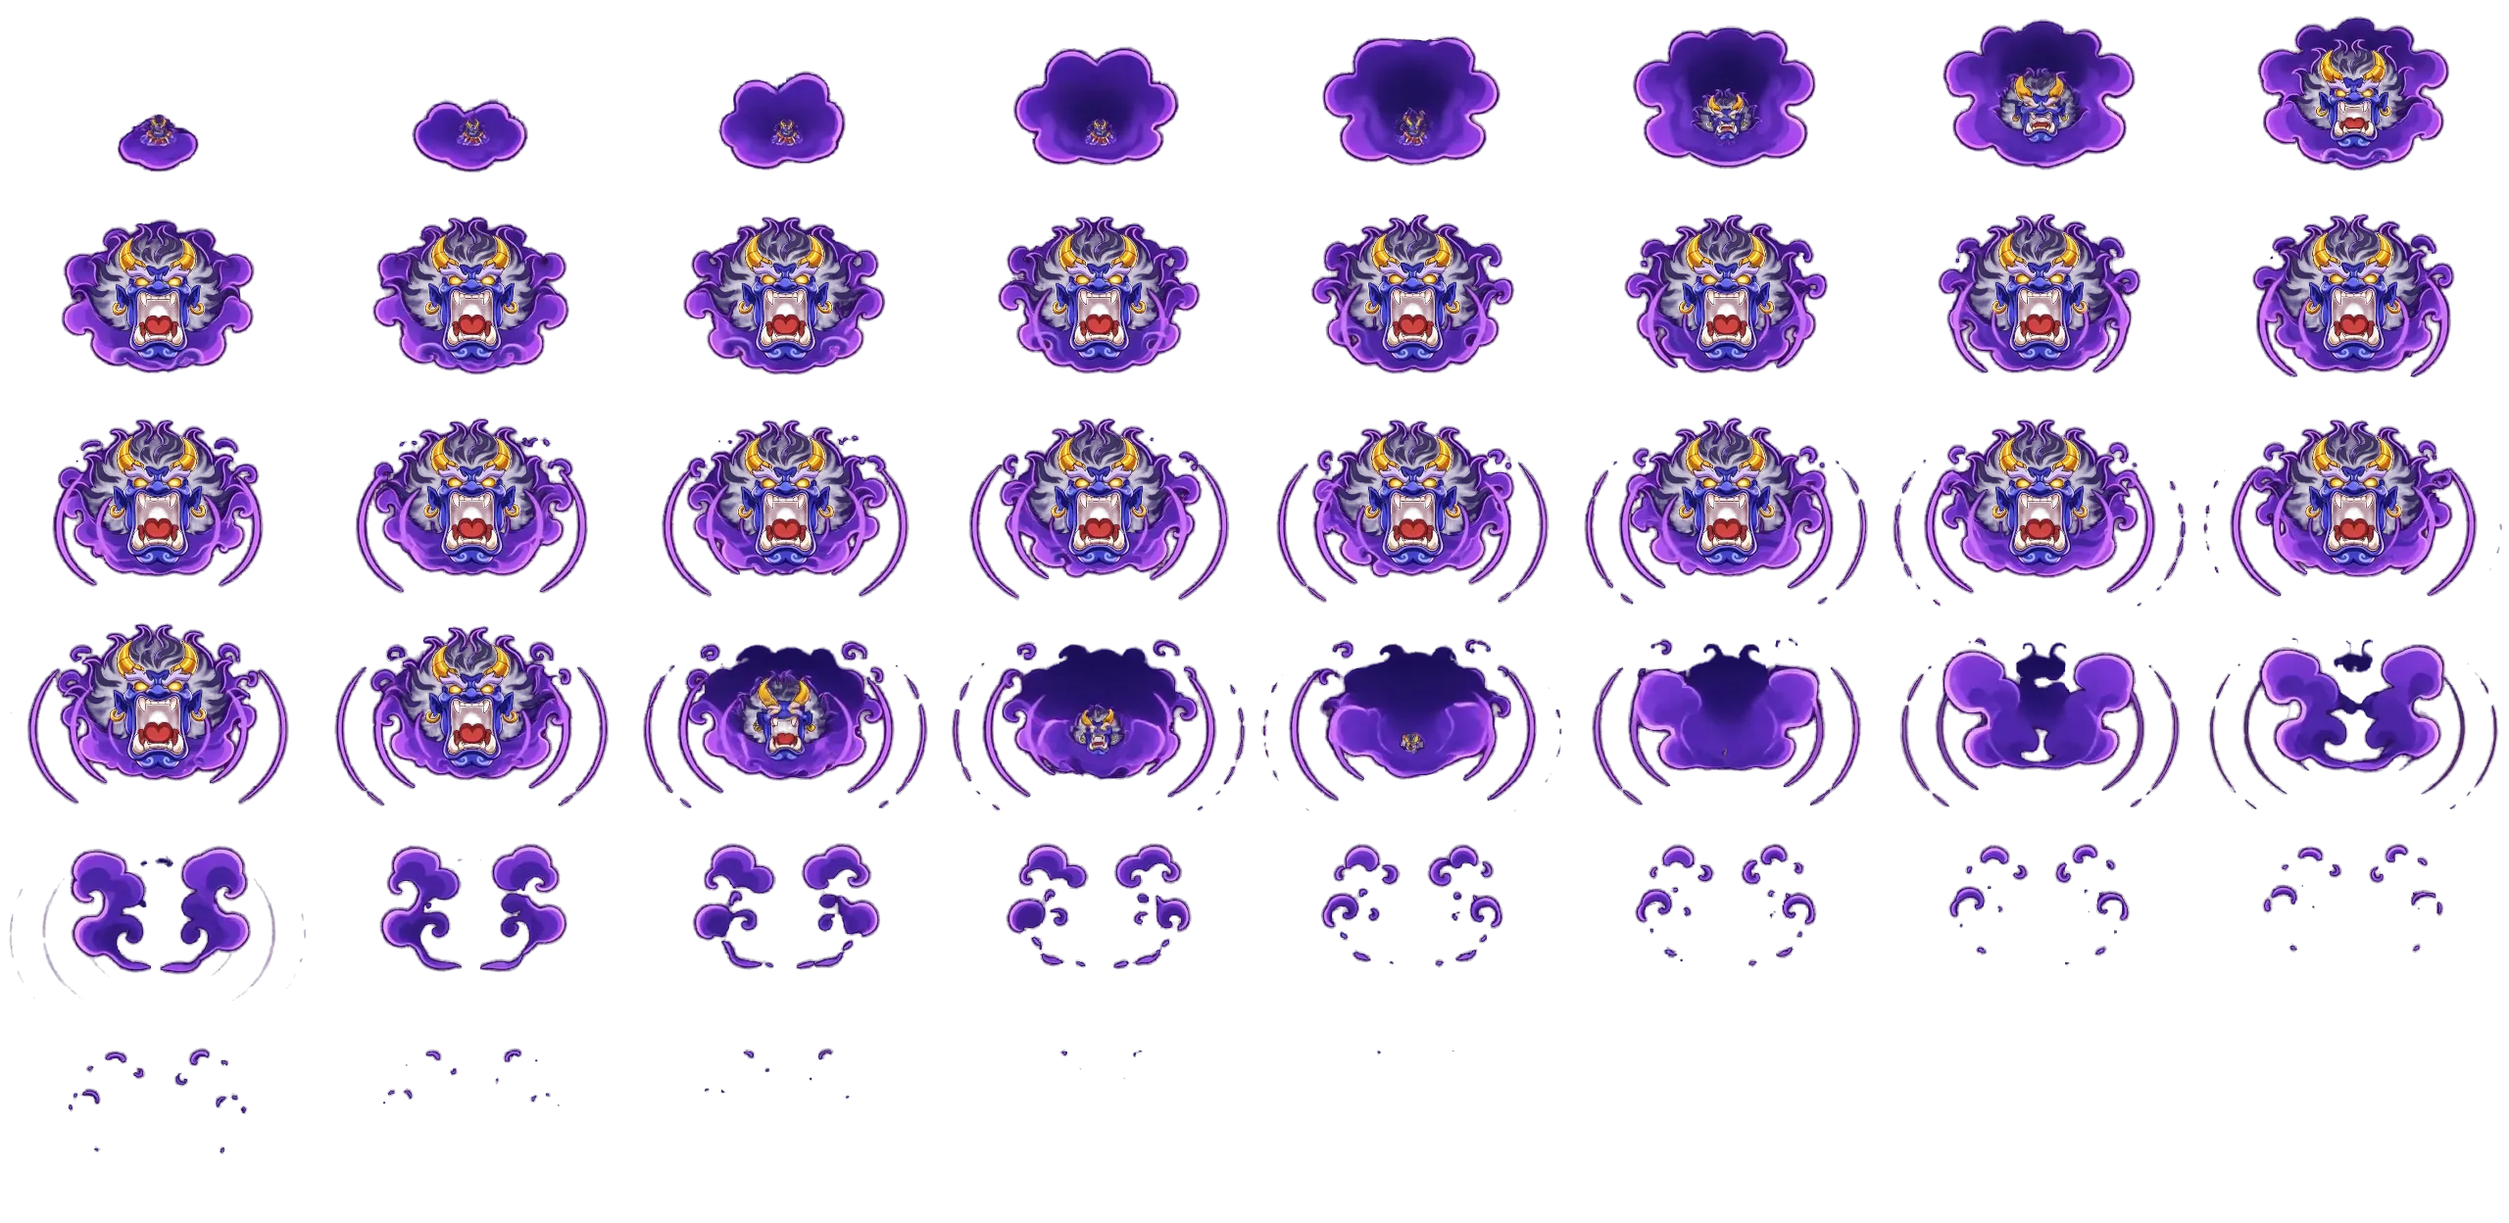
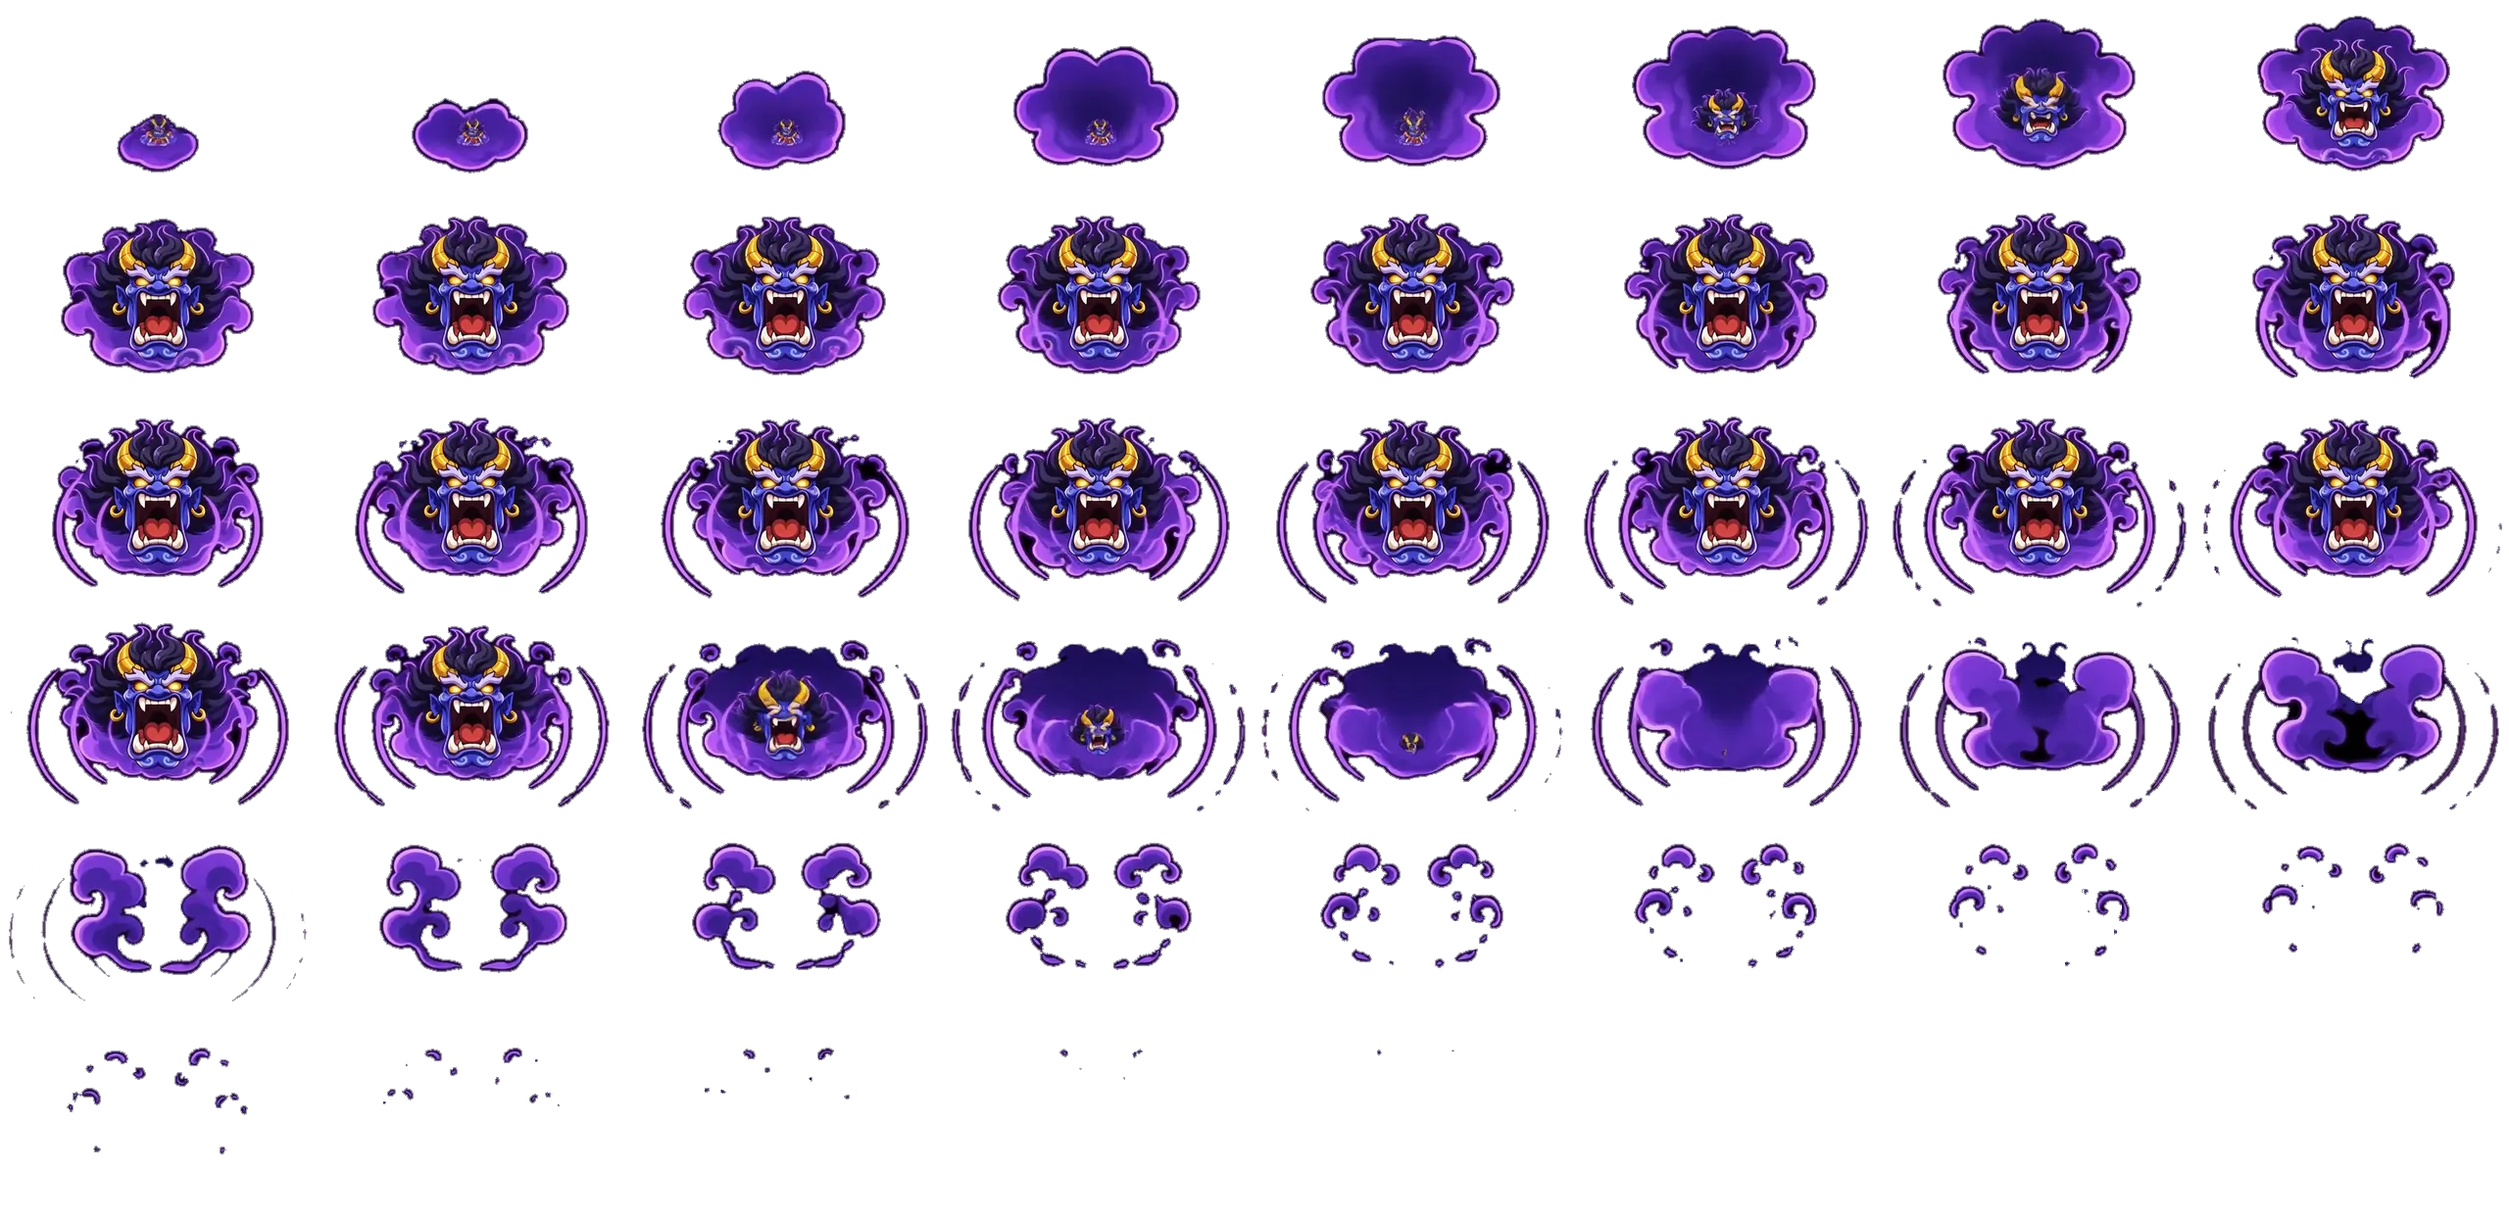
Mirror totem-legend: oni roar colours

diff --git a/cat_vfx.js b/cat_vfx.js
@@ -429,7 +429,7 @@ KTV.skyLand=function(){addFx(new KLine({x:player.x,y:player.y,z:78,ang:Math.PI/2
 /* Oni Roar: the oni's face looms behind the cat, the roar rolls out in rings */
 /* owner 2026-11-20: Oni Roar = his video of the blue oni (assets/fx/cat/oni_roar.webp, 46 frames 320×208, 8 cols, black keyed):
    it puffs out of purple smoke behind the cat, roars with its own shock arcs, then breaks into smoke. No code rings. */
-const ONIR=new Image();ONIR.src='assets/fx/cat/oni_roar.webp';
+const ONIR=new Image();ONIR.src='assets/fx/cat/oni_roar.webp?v=2';
 class KRoarClip{constructor(){Object.assign(this,{t:0,layer:'ground',w:185});}
   update(dt){this.t+=dt;return this.t<46/24;}
   draw(){const im=ONIR;if(!im.complete||!im.naturalWidth)return;const i=Math.min(45,Math.floor(this.t*24)),fw=im.naturalWidth/8,fh=im.naturalHeight/6,sx=(i%8)*fw,sy=Math.floor(i/8)*fh;

diff --git a/index.html b/index.html
@@ -5924,7 +5924,7 @@ window.AF={levelUp:()=>{if(PS.lv<99){PS.lv++;applyStats();player.hp=player.maxHp
 <script src="wolf_vfx3.js?v=66"></script>
 <script src="cat_art.js?v=1"></script>
 <script src="kitsune_art.js?v=1"></script>
-<script src="cat_vfx.js?v=11"></script>
+<script src="cat_vfx.js?v=12"></script>
 <script src="kitsune_vfx.js?v=1"></script>
 <script src="croc_vfx3.js?v=1"></script>
 <script src="ui_skin.js?v=1"></script>

diff --git a/CLAUDE.md b/CLAUDE.md
@@ -115,7 +115,7 @@ The owner (Thai speaker) builds this game across many chats. Reply in Thai. Comm
   · New cfg options: noApron (no code doorsteps; the capital sprites paint their own), artRef:[r,g,b] + bounce (pieces are colour-matched to the stone they stand on, not to the grass ground), lawns {pre:1 (painted in the floor picture, only planted at runtime), keep, m, step, g, f}, groundImgs, kerb-less paves {mul} (multiplicative tint), walls.parapet now draws merlons with a front face and fills the rampart walk behind the face texture's own merlons. The minimap shows the floor picture.
   · Layout touches in capT: buildings stand 26 px back from their terrace's kerb, the fountain is on the plaza centre (y 2180) with four lamps, the two ringed pines stand on the terraces north of the plaza, the three lawns have real trees (2 each) instead of a ringed pine on the kerb, ten flower beds are planted densely, gates have a clean stone floor (pave rects with the floor's texture and tint, map-anchored → no seam) that spreads into a worn apron outside before the earth road.
   · Checked: no console errors, start / gates / warps / lawns reachable, routes across the city work, frame rate unchanged, chunk bake 66 → 26 ms. Night mode looked at (fine). Not looked at: phone screen.
-- Cat effects v3 (owner 2026-11-20: "make the cat's skill effects with SVG and VFX, pretty and realistic, details matching each skill's concept" + "hit timing, sword-swing timing and effect timing must match") — REPLACES the 'Cat (White Ronin) code VFX' note above. Plan + per-skill table in CAT_FX_PLAN_TH.md. Files: cat_art.js (20 SVG pieces rasterised once: petals, blossom, swallow, paw, eye, kasa, mask, oniFace, oniSpirit, flames, hitodama, windMark, mountain, kumo → window.KTA) · cat_vfx.js (kit: KArc sword arc in a tilted plane / KLine iai line / KGlint / KBurst / KRing broken ground ring / KStreak / KSprite / KFissure ground crack / KSpike stone spike / petals that settle on the ground, embers, ground-coloured dust, stones, straw; hooks in window.KTV) · char_cat.js calls ktV('<hook>',…) and falls back to the painted pictures when cat_vfx.js is off (?vfx3=0). Timing rule: an arc is given the seconds left until the contact frame (`lead`, action times ÷ ACTION_TEMPO via rt()) and its edge is on the target at exactly that moment; hit sparks come from the damage (jgAfterHurt → KTV.hit); hit-stop freezes both. All cuts follow the cat's only attack clip (a rising draw-cut): shapes rise / fall / flat / up, 'down' only for the two jump slams. Old look off: KtImg and KtArc are swallowed in their constructors (KTV.img / KTV.arc), ktPetals / ktEmbers are redirected, engine GRing / Impact / Crack / CrackStar / Streak + round emits are dropped ONLY while the cat's own skill code runs (SKCTX / __ACTEV / __KTSELF set by KtCore) so boss telegraphs stay; skill_enh.js effects (colour #ffe9a8) are converted to a gold ring / glint; HitCrescents + PuffDust always dropped; cat removed from TV.toonHeroes (no charge-up glow). Re-timed with the same action length: Swift Draw blink 0→.028 (it used to cut mid-dash and miss from range), Tempest Iai cuts spread over the action, Grinding Wheel = 3 real turns through the 8 sprite directions (SP .11 a-s per turn, one hit per turn), KtCharge runs on the action clock (it ended at 75 %). Persistent pieces stay calm: Ki ripples + clouds, faint blossom (Sakura Dance), flame tongues (Ashura: back ones on the ground layer), mountain + orbiting stones (Stance), two tinted clones (Shadow Dance, KClone), Flow shown as petals. Test tools (/home/claude/work): cat_harness.js (stub rAF FIRST, wait, then init — a pending rAF frame after init gives a negative dt → white screen), catstep.py <tag> <keys> [scale=0.9 cols=6 every=3 frames=54 skip=62] = labelled strips with HIT marks, catclip.py basic|a|b|c = 30 fps mp4 per tree, benchcat.py = new vs old bench. Bench (benchcat.py, 3 × 8 runs each): new 2,394 · old painted 2,426 — the same within the bench's own noise (8-run means move ±2.5 % between sessions; single-target dps1 identical), hit counts per skill identical on passive dummies (hitcmp.py). Ground break (owner 2026-11-20 'no fire, just the ground cracking from the impact'): crater() in cat_vfx.js draws his painted crack assets/fx/cat/k_crater.webp (KCraterPic: opens as a growing ellipse in .13 s, slabs jolt, fades over .55 s) + dust + stones, no lava groundBreak, no ring; KFissure / KSpike default hot:0 (no glowing cracks). Used by Earthfall, Sky Drop, Avalanche, Oni Cleave, Ashura end. Oni Executioner clip (owner 2026-11-20, his video of the fire oni): assets/fx/cat/oni_exec.webp (75 frames 256², 10 cols, black keyed, edges faded) drawn by KOniClip in cat_vfx.js on the ground layer behind the cat (150 px, 14 px behind): frames 0–42 follow the charge (KtCharge ch.t/ch.T), 43–74 = slash + break-up at 24 fps from the end of the charge; spawned from KTV.chargeTick for every kbExec cast (not only with the Oni Impact gem); the old oniSpirit sprite is not drawn while it plays. Oni Roar clip (owner 2026-11-20, his blue-oni video): frames 20–110 every 2nd (the opening where the oni shrinks away is cut) → assets/fx/cat/oni_roar.webp (46 frames 320×208, 8 cols, black keyed), KRoarClip in cat_vfx.js on the ground layer, 185 px wide, raised so the face sits above the cat's head, 24 fps (≈1.9 s); roar() no longer adds code rings / the oniFace sprite / embers. Waiting: Mountain Stance video (green screen), mask pictures (white kabuki = Ashura Mask, red oni mask). Not done: own effects for the 11 ex_ skills, phone check, owner's verdict.
+- Cat effects v3 (owner 2026-11-20: "make the cat's skill effects with SVG and VFX, pretty and realistic, details matching each skill's concept" + "hit timing, sword-swing timing and effect timing must match") — REPLACES the 'Cat (White Ronin) code VFX' note above. Plan + per-skill table in CAT_FX_PLAN_TH.md. Files: cat_art.js (20 SVG pieces rasterised once: petals, blossom, swallow, paw, eye, kasa, mask, oniFace, oniSpirit, flames, hitodama, windMark, mountain, kumo → window.KTA) · cat_vfx.js (kit: KArc sword arc in a tilted plane / KLine iai line / KGlint / KBurst / KRing broken ground ring / KStreak / KSprite / KFissure ground crack / KSpike stone spike / petals that settle on the ground, embers, ground-coloured dust, stones, straw; hooks in window.KTV) · char_cat.js calls ktV('<hook>',…) and falls back to the painted pictures when cat_vfx.js is off (?vfx3=0). Timing rule: an arc is given the seconds left until the contact frame (`lead`, action times ÷ ACTION_TEMPO via rt()) and its edge is on the target at exactly that moment; hit sparks come from the damage (jgAfterHurt → KTV.hit); hit-stop freezes both. All cuts follow the cat's only attack clip (a rising draw-cut): shapes rise / fall / flat / up, 'down' only for the two jump slams. Old look off: KtImg and KtArc are swallowed in their constructors (KTV.img / KTV.arc), ktPetals / ktEmbers are redirected, engine GRing / Impact / Crack / CrackStar / Streak + round emits are dropped ONLY while the cat's own skill code runs (SKCTX / __ACTEV / __KTSELF set by KtCore) so boss telegraphs stay; skill_enh.js effects (colour #ffe9a8) are converted to a gold ring / glint; HitCrescents + PuffDust always dropped; cat removed from TV.toonHeroes (no charge-up glow). Re-timed with the same action length: Swift Draw blink 0→.028 (it used to cut mid-dash and miss from range), Tempest Iai cuts spread over the action, Grinding Wheel = 3 real turns through the 8 sprite directions (SP .11 a-s per turn, one hit per turn), KtCharge runs on the action clock (it ended at 75 %). Persistent pieces stay calm: Ki ripples + clouds, faint blossom (Sakura Dance), flame tongues (Ashura: back ones on the ground layer), mountain + orbiting stones (Stance), two tinted clones (Shadow Dance, KClone), Flow shown as petals. Test tools (/home/claude/work): cat_harness.js (stub rAF FIRST, wait, then init — a pending rAF frame after init gives a negative dt → white screen), catstep.py <tag> <keys> [scale=0.9 cols=6 every=3 frames=54 skip=62] = labelled strips with HIT marks, catclip.py basic|a|b|c = 30 fps mp4 per tree, benchcat.py = new vs old bench. Bench (benchcat.py, 3 × 8 runs each): new 2,394 · old painted 2,426 — the same within the bench's own noise (8-run means move ±2.5 % between sessions; single-target dps1 identical), hit counts per skill identical on passive dummies (hitcmp.py). Ground break (owner 2026-11-20 'no fire, just the ground cracking from the impact'): crater() in cat_vfx.js draws his painted crack assets/fx/cat/k_crater.webp (KCraterPic: opens as a growing ellipse in .13 s, slabs jolt, fades over .55 s) + dust + stones, no lava groundBreak, no ring; KFissure / KSpike default hot:0 (no glowing cracks). Used by Earthfall, Sky Drop, Avalanche, Oni Cleave, Ashura end. Oni Executioner clip (owner 2026-11-20, his video of the fire oni): assets/fx/cat/oni_exec.webp (75 frames 256², 10 cols, black keyed, edges faded) drawn by KOniClip in cat_vfx.js on the ground layer behind the cat (150 px, 14 px behind): frames 0–42 follow the charge (KtCharge ch.t/ch.T), 43–74 = slash + break-up at 24 fps from the end of the charge; spawned from KTV.chargeTick for every kbExec cast (not only with the Oni Impact gem); the old oniSpirit sprite is not drawn while it plays. Oni Roar clip (owner 2026-11-20, his blue-oni video): frames 20–110 every 2nd (the opening where the oni shrinks away is cut) → assets/fx/cat/oni_roar.webp (46 frames 320×208, 8 cols; black keyed by flood-fill from the frame edge so the dark skin / hair stay solid, luminance alpha only for glow), KRoarClip in cat_vfx.js on the ground layer, 185 px wide, raised so the face sits above the cat's head, 24 fps (≈1.9 s); roar() no longer adds code rings / the oniFace sprite / embers. Waiting: Mountain Stance video (green screen), mask pictures (white kabuki = Ashura Mask, red oni mask). Not done: own effects for the 11 ex_ skills, phone check, owner's verdict.
 - Kitsune effects v3 (owner 2026-11-20 "next, the nine-tailed fox", same brief as the cat). Plan + per-skill table in KITSUNE_FX_PLAN_TH.md. Files: kitsune_art.js (21 SVG pieces: pink / blue fox fire, ofuda, torii, bell, nine tails fan, lantern, leaf, rice, fox mask, crescent, full moon, Yata mirror, moon god, fox sun, petals → window.KTA, same registry as the cat's) · kitsune_vfx.js (hooks in window.KIV: cast / release / staff / hit / pow / home / shot / beam / pillar / burst / ground / top + one per skill; own pieces KBeamFx lance, KFlameCol fire column, fall() = things that drop and touch the ground on the damage frame, sparks() = tiny flames, never round dots) · char_kitsune.js asks kiV('<hook>',…) first. The generic kit (KArc, KRing, KSprite, petals, dust …) is now SHARED: sections 1–3 of cat_vfx.js run for cat + kitsune and export window.K3, then the file returns unless CHAR is the cat; wolf_vfx3.js (VK) also runs for the kitsune. Include order in index.html: wolf_vfx3 → cat_art → kitsune_art → cat_vfx → kitsune_vfx. The painted layer char_kitsune_fx.js used to install itself by wrapping installKitsune — installKitsuneFx now returns unless ?vfx3=0. BUG FIXED (affects play, not only looks): KiCore.update returned nothing, so the engine removed the ticker after one frame — Wisp Dance, Foxfire Veil, lantern triggers, Burning Petals, Lunar Circle (pull, ticks, Eclipse), Tsukuyomi's Night (beams, Moonrise), Torii SP, Grace heal, Awakening cooldowns never ran, and every cast left one more KiGround + KiTop in fx. It now returns CHAR==='kitsune'. Branch A was +13 % at the old scale, so KI_SCALE {A 1.84, B 1.07} → {A 1.60, B 1.06}; bench 8 runs: A 2,456 · B 2,421 (/home/claude/work/benchk.py A,B 8; KI_SCALE is applied once at load, change the constant to try a value). SAME BUG STILL OPEN IN BASTET: BaCore.update (char_bastet.js) also ends without a return, so her per-frame logic (hex decay, plague / soul ticks, army end, shield expiry) runs one frame per cast — NOT fixed yet because it needs a re-bench and a new BA_SCALE; owner was told 2026-11-20. Dragon, lion and anubis cores return correctly. Test tools: kstep.py <tag> <keys> [scale= cols= every= frames= skip=] and kclip.py basic|a|b|c (kitsune versions of the cat tools, output in /home/claude/work/kit). Owner 2026-11-20 after the first clips: 'the nine-tailed fox is a RANGED magic class' → with KIV on, the normal attack (kStaff) plays the cast ('buff') clip instead of the wolf's axe swing — same release time and total length, so her attack rate is unchanged; fox fire gathers at the staff head during the wind-up (KIV.staffStart) and is thrown from there (KIV.from, KiHome starts at the staff tip and sinks to body height); no swing arc. Review clips are recorded from range (190–260 px). Keep every kitsune effect reading as a ranged cast. Not done: she still wears the wolf sprite, ex_ skills use the converted gold ring / glint, phone check, owner's verdict.
 - Wolf effects v4 (2026-11-20): wolf_art.js (SVG: howl, axes, shields, banner, gate, skull, spear, runes, feathers) + wolf_vfx4.js (window.WV4, hooks asked first by wolf_fx.js: make / slash / addFx / emit / hurt / pic; ?wv4=0 = off). Owner after seeing it: "skills without a slash go back to the old look, my generated pictures fit better" → v4 now only covers the axe-cut skills (SLASHK: basic, reversalSlash, armorBreak, bloodCleave, savageRend, axeDance, revengeBreaker, vampiricAxe, bloodRush, thunderFang, lightningPursuit, frostFang): arcs follow the sprite's measured axe head and land on the contact frame, hit cuts / blood / sparks come from hurt(). Everything else (buffs, leaps, Valhalla, Executioner, runes, spear, banner, Fenrir) and the 6 clip skills draw exactly as before (checked: same painted pictures in the all-skill survey). The SVG pieces for the non-slash skills stay in wolf_art.js unused.
 - Wolf v4 ROLLED BACK (owner 2026-11-20 08:30: 'not right, go back to before I asked to change the wolf skills'): wolf_fx.js restored to the pre-v4 version, wolf_art.js + wolf_vfx4.js no longer loaded (files kept, unused), cat_vfx.js K3 kit back to cat + kitsune only. The wolf is exactly as before this pass (wolf_fx.js + wolf_vfx3.js + his clips).
